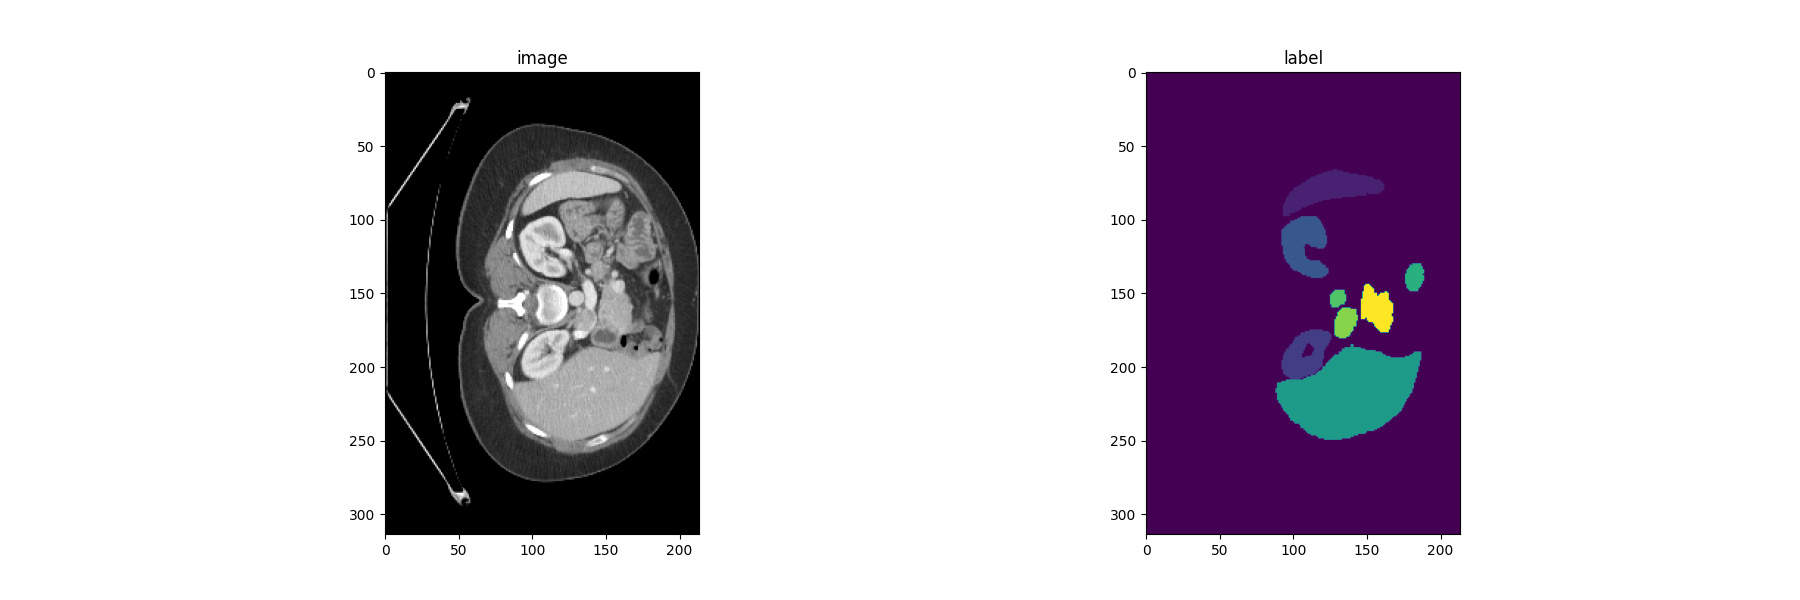
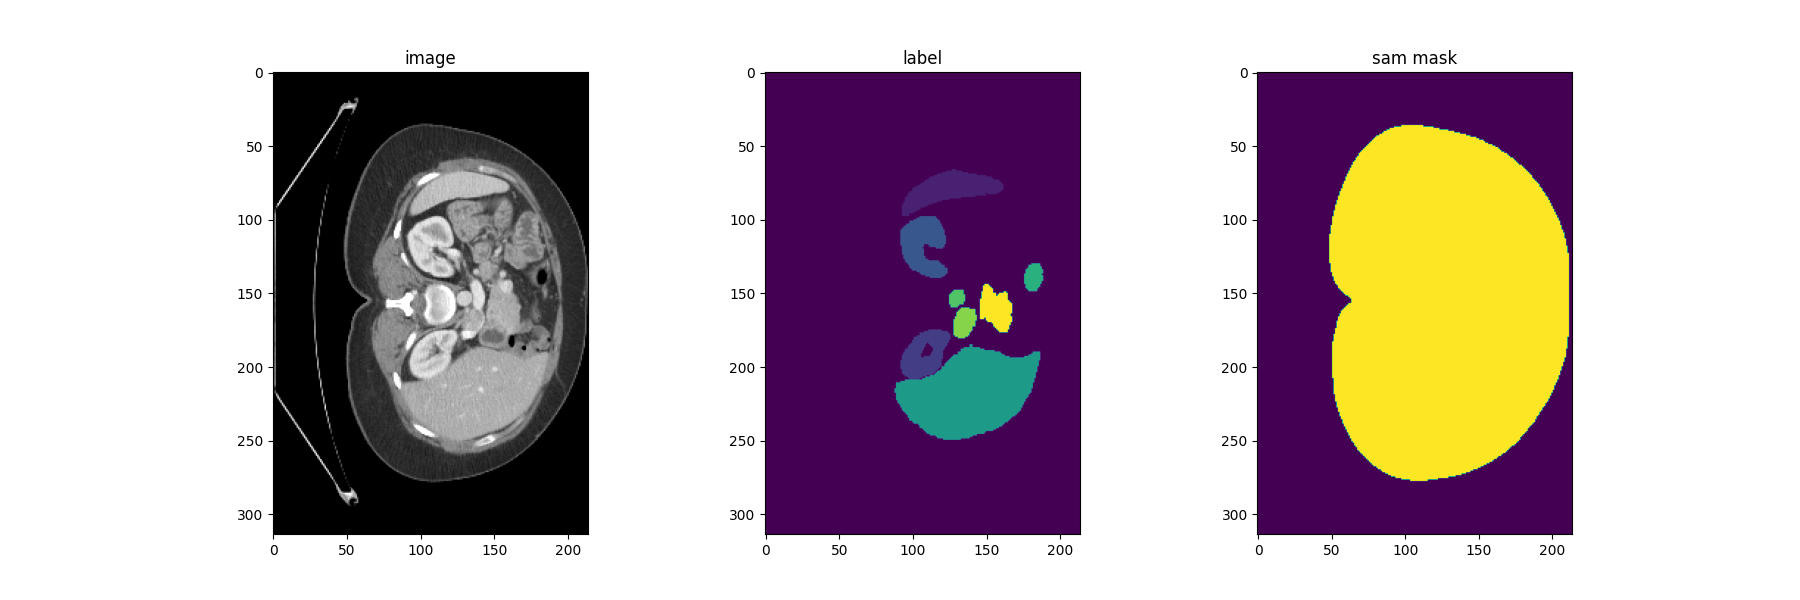
vis code

diff --git a/segment-anything/notebooks/visualization.py b/segment-anything/notebooks/visualization.py
@@ -4,6 +4,7 @@ import nibabel as nib
 import sys
 import cv2
 import os
+import torch
 sys.path.append("..")
 from segment_anything import sam_model_registry, SamAutomaticMaskGenerator, SamPredictor
 from PIL import Image
@@ -91,61 +92,7 @@ train_transforms = Compose(
         ),
     ]
 )
-val_transforms = Compose(
-    [
-        LoadImaged(keys=["image", "label"]),
-        EnsureChannelFirstd(keys=["image", "label"]),
-        Orientationd(keys=["image", "label"], axcodes="RAS"),
-        Spacingd(
-            keys=["image", "label"],
-            pixdim=(1.5, 1.5, 2.0),
-            mode=("bilinear", "nearest"),
-        ),
-        ScaleIntensityRanged(keys=["image"], a_min=-175, a_max=250, b_min=0.0, b_max=1.0, clip=True),
-        CropForegroundd(keys=["image", "label"], source_key="image"),
-    ]
-)
-data_dir = "/home/jiaxin/ML23Fall/data/images/RawData/Training/"
-split_json = "dataset_0.json"
 
-datasets = data_dir + split_json
-datalist = load_decathlon_datalist(datasets, True, "training")
-val_files = load_decathlon_datalist(datasets, True, "validation")
-train_ds = CacheDataset(
-    data=datalist,
-    transform=train_transforms,
-    cache_num=24,
-    cache_rate=1.0,
-    num_workers=8,
-)
-train_loader = DataLoader(train_ds, batch_size=1, shuffle=True, num_workers=8, pin_memory=True)
-val_ds = CacheDataset(data=val_files, transform=val_transforms, cache_num=6, cache_rate=1.0, num_workers=4)
-val_loader = DataLoader(val_ds, batch_size=1, shuffle=False, num_workers=4, pin_memory=True)
-slice_map = {
-    "img0035.nii.gz": 170,
-    "img0036.nii.gz": 230,
-    "img0037.nii.gz": 204,
-    "img0038.nii.gz": 204,
-    "img0039.nii.gz": 204,
-    "img0040.nii.gz": 180,
-}
-case_num = 0
-img_name = os.path.split(val_ds[case_num]["image"].meta["filename_or_obj"])[1]
-img = val_ds[case_num]["image"]
-label = val_ds[case_num]["label"]
-img_shape = img.shape
-label_shape = label.shape
-print(f"image shape: {img_shape}, label shape: {label_shape}")
-plt.figure("image", (18, 6))
-plt.subplot(1, 2, 1)
-plt.title("image")
-plt.imshow(img[0, :, :, slice_map[img_name]].detach().cpu(), cmap="gray")
-plt.subplot(1, 2, 2)
-plt.title("label")
-plt.imshow(label[0, :, :, slice_map[img_name]].detach().cpu())
-plt.show()
-output_path = './images/image.png'  # Change to your desired path
-plt.savefig(output_path)
 def get_model():
     sam_checkpoint = "../sam_vit_h_4b8939.pth"
     model_type = "vit_h"
@@ -167,8 +114,9 @@ def get_anns_score(anns):
     
 def generate_slice(image_data, slice_index):
     mask_generator = get_model()
+    print(image_data)
     # Extract the i-th slice (2D array)
-    slice_data = image_data[:, :, slice_index]
+    slice_data = image_data[0, :, :, slice_index].numpy()
     # Normalize the slice to 0-255 range
     slice_normalized = cv2.normalize(slice_data, None, alpha=0, beta=255, norm_type=cv2.NORM_MINMAX)
     slice_normalized = slice_normalized.astype(np.uint8)
@@ -242,3 +190,64 @@ def main():
 
     sam_generated_masks = generate_slice(image_data, slice_index)
     visualize_slice_with_sam_mask(image_data, label_data, sam_generated_masks, slice_index, save_path='./images/image_visualization.png')
+    
+val_transforms = Compose(
+    [
+        LoadImaged(keys=["image", "label"]),
+        EnsureChannelFirstd(keys=["image", "label"]),
+        Orientationd(keys=["image", "label"], axcodes="RAS"),
+        Spacingd(
+            keys=["image", "label"],
+            pixdim=(1.5, 1.5, 2.0),
+            mode=("bilinear", "nearest"),
+        ),
+        ScaleIntensityRanged(keys=["image"], a_min=-175, a_max=250, b_min=0.0, b_max=1.0, clip=True),
+        CropForegroundd(keys=["image", "label"], source_key="image"),
+    ]
+)
+data_dir = "/home/jiaxin/ML23Fall/data/images/RawData/Training/"
+split_json = "dataset_0.json"
+
+datasets = data_dir + split_json
+datalist = load_decathlon_datalist(datasets, True, "training")
+val_files = load_decathlon_datalist(datasets, True, "validation")
+train_ds = CacheDataset(
+    data=datalist,
+    transform=train_transforms,
+    cache_num=24,
+    cache_rate=1.0,
+    num_workers=8,
+)
+train_loader = DataLoader(train_ds, batch_size=1, shuffle=True, num_workers=8, pin_memory=True)
+val_ds = CacheDataset(data=val_files, transform=val_transforms, cache_num=6, cache_rate=1.0, num_workers=4)
+val_loader = DataLoader(val_ds, batch_size=1, shuffle=False, num_workers=4, pin_memory=True)
+slice_map = {
+    "img0035.nii.gz": 170,
+    "img0036.nii.gz": 230,
+    "img0037.nii.gz": 204,
+    "img0038.nii.gz": 204,
+    "img0039.nii.gz": 204,
+    "img0040.nii.gz": 180,
+}
+case_num = 0
+img_name = os.path.split(val_ds[case_num]["image"].meta["filename_or_obj"])[1]
+img = val_ds[case_num]["image"]
+label = val_ds[case_num]["label"]
+img_shape = img.shape
+label_shape = label.shape
+print(f"image shape: {img_shape}, label shape: {label_shape}")
+plt.figure("image", (18, 6))
+plt.subplot(1, 3, 1)
+plt.title("image")
+print(img)
+plt.imshow(img[0, :, :, slice_map[img_name]].detach().cpu(), cmap="gray")
+plt.subplot(1, 3, 2)
+plt.title("label")
+plt.imshow(label[0, :, :, slice_map[img_name]].detach().cpu())
+sam_generated_masks = torch.tensor(generate_slice(img, slice_map[img_name]))
+plt.subplot(1, 3, 3)
+plt.title("sam mask")
+plt.imshow(sam_generated_masks.detach().cpu())
+plt.show()
+output_path = './images/image.png'  # Change to your desired path
+plt.savefig(output_path)
